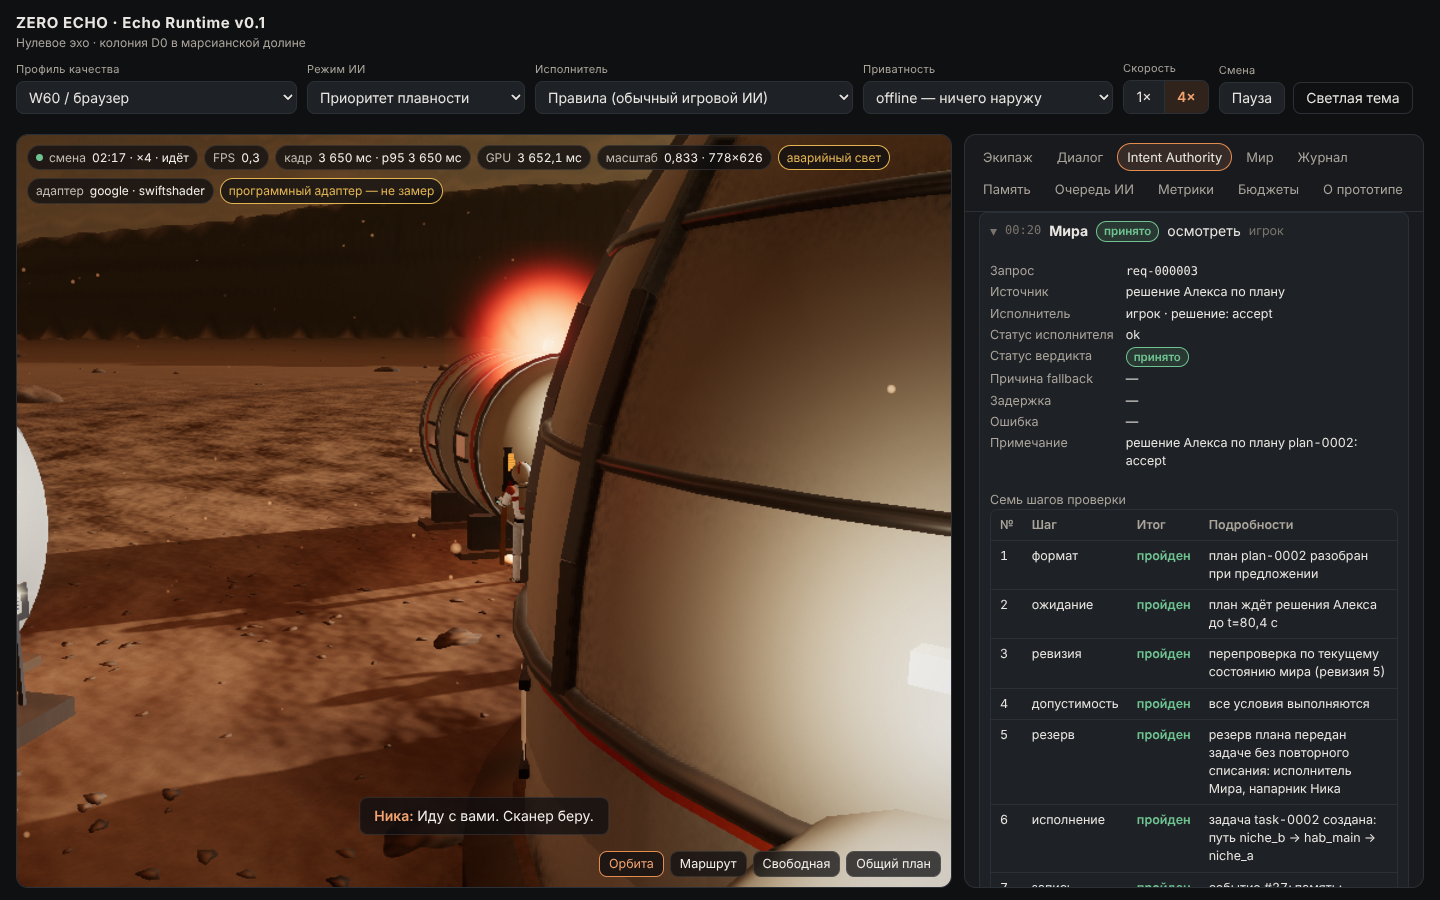
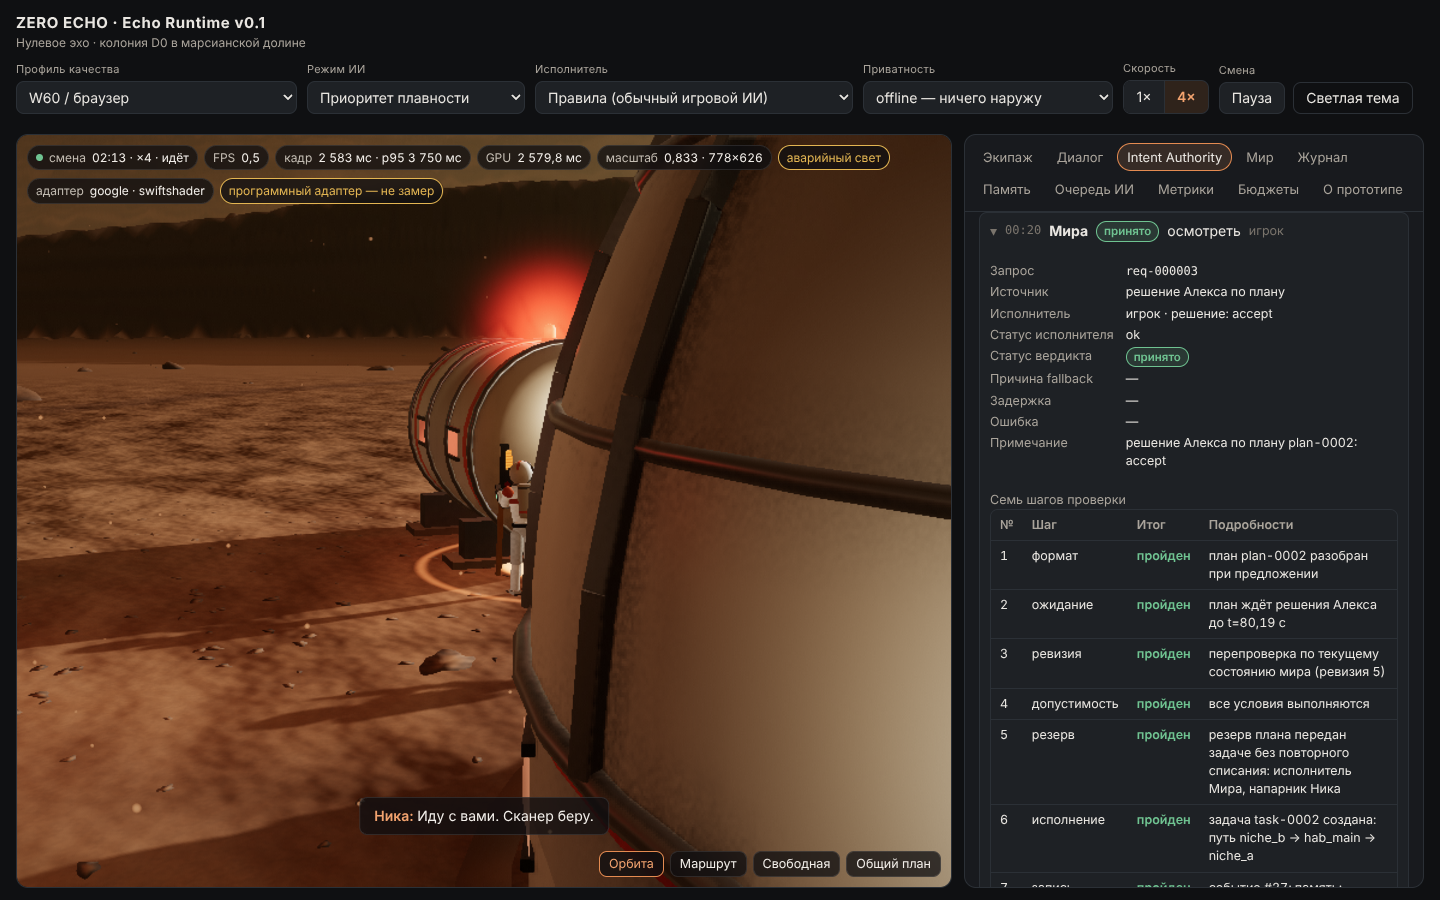
Finish web app: label placement on 2D map, host-set model deadline for remote APIs
core: set_ai_mode accepts deadline_scale (1..8, saved with the game) so a host
can give a remote API more than the 2.5 s target of Документ §11; tested.
web: «Срок ответа ИИ» selector; choosing Claude raises it to 10 s with a
notice; 2D map labels avoid overlapping dots and each other.

Claude-Session: https://claude.ai/code/session_011FHJpWL17zDC3nNXpciDhf

diff --git a/web/src/ui/map2d.ts b/web/src/ui/map2d.ts
@@ -79,6 +79,36 @@ export class ColonyMap {
     this.raf = 0;
   }
 
+  /** Screen rectangles already taken in the current frame (dots and labels), for label placement. */
+  private placed: Rect[] = [];
+
+  /**
+   * Places a label at the first candidate position that does not overlap anything placed this frame
+   * (or the least overlapping one), keeping it inside the canvas.
+   */
+  private placeLabel(text: string, candidates: Array<(tw: number, th: number) => [number, number]>, color: string, dpr: number): void {
+    const ctx = this.ctx;
+    const tw = ctx.measureText(text).width;
+    const th = 12 * dpr;
+    const W = this.canvas.width, H = this.canvas.height;
+    let best: [number, number] = candidates[0](tw, th);
+    let bestCost = Infinity;
+    for (const cand of candidates) {
+      const [lx, ly] = cand(tw, th);
+      const r = { x: lx - 2 * dpr, y: ly - dpr, w: tw + 4 * dpr, h: th + 2 * dpr };
+      let cost = 0;
+      for (const q of this.placed) cost += overlapArea(r, q);
+      if (r.x < 0 || r.y < 0 || r.x + r.w > W || r.y + r.h > H) cost += r.w * r.h;
+      if (cost < bestCost) { best = [lx, ly]; bestCost = cost; if (cost === 0) break; }
+    }
+    this.placed.push({ x: best[0] - 2 * dpr, y: best[1] - dpr, w: tw + 4 * dpr, h: th + 2 * dpr });
+    ctx.save();
+    ctx.textAlign = 'left';
+    ctx.textBaseline = 'top';
+    this.label(text, best[0], best[1], color, dpr);
+    ctx.restore();
+  }
+
   /** Text with a halo in the background colour so labels stay legible over lines and modules. */
   private label(text: string, x: number, y: number, color: string, dpr: number): void {
     const ctx = this.ctx;
@@ -122,6 +152,7 @@ export class ColonyMap {
 
     const snap = this.snap;
     const view = this.view;
+    this.placed = [];
     const sealed = new Set(view?.sealedZones ?? []);
 
     // doors (passages between zone stand points)
@@ -166,12 +197,6 @@ export class ColonyMap {
       }
       ctx.restore();
     }
-    // zone labels after all modules, so no module covers a label
-    for (const m of scene.modules) {
-      this.label(zoneNames.get(m.zone) ?? m.zone, X(m.position[0]), Z(m.position[2]) + Math.max(m.size[0], m.size[2]) * scale / 2 + 3 * dpr, P.label, dpr);
-    }
-    const surf = standPoint('surface');
-    this.label(zoneNames.get('surface') ?? 'поверхность', X(surf[0]), Z(surf[2]) + 6 * dpr, P.label, dpr);
 
     // markers
     for (const mk of view?.markers ?? []) {
@@ -208,10 +233,9 @@ export class ColonyMap {
     ctx.beginPath();
     ctx.arc(X(pp[0] - 1.6), Z(pp[2] - 1.2), 6 * dpr, 0, Math.PI * 2);
     ctx.stroke();
-    ctx.textBaseline = 'middle';
-    ctx.textAlign = 'left';
-    this.label(player.name_ru, X(pp[0] - 1.6) + 9 * dpr, Z(pp[2] - 1.2), P.label, dpr);
     ctx.restore();
+    const playerXY: [number, number] = [X(pp[0] - 1.6), Z(pp[2] - 1.2)];
+    this.placed.push({ x: playerXY[0] - 7 * dpr, y: playerXY[1] - 7 * dpr, w: 14 * dpr, h: 14 * dpr });
 
     // crew
     ctx.font = `600 ${11.5 * dpr}px ui-sans-serif, system-ui, sans-serif`;
@@ -233,11 +257,36 @@ export class ColonyMap {
       ctx.arc(x, z, 6.5 * dpr, 0, Math.PI * 2);
       ctx.fill();
       ctx.stroke();
-      ctx.textAlign = 'left';
-      ctx.textBaseline = 'middle';
-      this.label(a.name, x + 9 * dpr, z - 1 * dpr, P.fg, dpr);
       ctx.restore();
+      this.placed.push({ x: x - 7 * dpr, y: z - 7 * dpr, w: 14 * dpr, h: 14 * dpr });
     }
+
+    // labels last, crew first: each takes the first free spot around its anchor
+    const around = (x: number, z: number, r: number) => [
+      (_tw: number, th: number): [number, number] => [x + r, z - th / 2],
+      (tw: number, th: number): [number, number] => [x - r - tw, z - th / 2],
+      (_tw: number, th: number): [number, number] => [x + r, z - th - r / 2],
+      (_tw: number, _th: number): [number, number] => [x + r, z + r / 2],
+      (tw: number, th: number): [number, number] => [x - tw / 2, z - r - th],
+      (tw: number, _th: number): [number, number] => [x - tw / 2, z + r],
+      (tw: number, th: number): [number, number] => [x - r - tw, z - th - r / 2],
+      (tw: number, _th: number): [number, number] => [x - r - tw, z + r / 2],
+    ];
+    ctx.font = `600 ${11.5 * dpr}px ui-sans-serif, system-ui, sans-serif`;
+    for (const a of view?.actors ?? []) this.placeLabel(a.name, around(X(a.position[0]), Z(a.position[2]), 9 * dpr), P.fg, dpr);
+    ctx.font = `${11 * dpr}px ui-sans-serif, system-ui, sans-serif`;
+    this.placeLabel(player.name_ru, around(playerXY[0], playerXY[1], 9 * dpr), P.label, dpr);
+    for (const m of scene.modules) {
+      const cx = X(m.position[0]), cz = Z(m.position[2]);
+      const r = (Math.max(m.size[0], m.size[2]) * scale) / 2 + 3 * dpr;
+      this.placeLabel(zoneNames.get(m.zone) ?? m.zone, [
+        (tw: number, _th: number): [number, number] => [cx - tw / 2, cz + r],
+        (tw: number, th: number): [number, number] => [cx - tw / 2, cz - r - th],
+        ...around(cx, cz, r),
+      ], P.label, dpr);
+    }
+    const surf = standPoint('surface');
+    this.placeLabel(zoneNames.get('surface') ?? 'поверхность', around(X(surf[0]), Z(surf[2]), 8 * dpr), P.label, dpr);
 
     if (view?.emergencyLights) {
       ctx.save();
@@ -248,4 +297,12 @@ export class ColonyMap {
       ctx.restore();
     }
   }
+}
+
+interface Rect { x: number; y: number; w: number; h: number }
+
+function overlapArea(a: Rect, b: Rect): number {
+  const w = Math.min(a.x + a.w, b.x + b.w) - Math.max(a.x, b.x);
+  const h = Math.min(a.y + a.h, b.y + b.h) - Math.max(a.y, b.y);
+  return w > 0 && h > 0 ? w * h : 0;
 }

diff --git a/web/src/ui/app.ts b/web/src/ui/app.ts
@@ -76,6 +76,7 @@ export class App implements AppApi {
     const provider = prefs.provider as ProviderId | undefined;
     if (provider && provider in host.providers && (provider !== 'mock' || this.dev)) {
       if (provider === 'claude' || provider === 'gateway') host.setPrivacy('hybrid');
+      if (provider === 'claude') host.setDeadlineScale(4);
       host.setProvider(provider);
     }
   }
@@ -160,6 +161,10 @@ export class App implements AppApi {
       this.refresh();
     });
 
+    const deadlineSel = byId<HTMLSelectElement>('sel-deadline');
+    deadlineSel.value = String(this.host.deadlineScale);
+    deadlineSel.addEventListener('change', () => this.host.setDeadlineScale(Number(deadlineSel.value)));
+
     const speed = (s: SimSpeed) => {
       this.host.setSpeed(s);
       byId('btn-speed-1').setAttribute('aria-pressed', String(s === 1));
@@ -183,6 +188,11 @@ export class App implements AppApi {
       host.setPrivacy('hybrid');
       byId<HTMLSelectElement>('sel-privacy').value = 'hybrid';
       this.notice('Профиль приватности переключён на hybrid: реплики Алекса и контекст NPC будут уходить в Claude через страницу-хост. Вернуть offline — в селекторе «Приватность».', 'warn');
+    }
+    if (id === 'claude' && host.deadlineScale === 1) {
+      host.setDeadlineScale(4);
+      byId<HTMLSelectElement>('sel-deadline').value = '4';
+      this.notice('Срок ответа ИИ увеличен до 10 с: удалённой модели (и первому запросу разрешения у зрителя) 2,5 с обычно мало. Это режим демонстрации API; цель документа — 2,5 с, вернуть её можно в «Срок ответа ИИ».', 'info');
     }
     host.setProvider(id);
     savePrefs({ provider: id });

diff --git a/web/src/agent/host.ts b/web/src/agent/host.ts
@@ -125,6 +125,8 @@ export class AgentHost {
   providerId: ProviderId = 'rules';
   privacy: PrivacyProfile = 'offline';
   aiMode: AiMode = 'smooth';
+  /** Host multiplier for model deadlines (1 = 2.5 s direct reply, Документ §11); larger values only for remote APIs. */
+  deadlineScale = 1;
   speed: SimSpeed = 1;
   /** Physical-truth debug layer in the world tab (never shown to NPCs). */
   debugTruth = false;
@@ -289,6 +291,12 @@ export class AgentHost {
     this.notify();
   }
 
+  setDeadlineScale(s: number): void {
+    this.deadlineScale = Math.min(8, Math.max(1, s));
+    this.applyAiMode();
+    this.notify();
+  }
+
   applyAiMode(): void {
     try {
       const cores = typeof navigator !== 'undefined' && navigator.hardwareConcurrency ? navigator.hardwareConcurrency : undefined;
@@ -297,6 +305,7 @@ export class AgentHost {
         gpu_enabled: this.providerId === 'webllm' && this.webllm.ready,
         calibrated: false, // no joint render+model calibration exists in this prototype (Документ §11)
         privacy_profile: this.privacy,
+        deadline_scale: this.deadlineScale,
         ...(cores ? { cpu_cores: cores } : {}),
       });
       if (this.snapshot) this.refresh();

diff --git a/web/index.html b/web/index.html
@@ -438,6 +438,11 @@
         <option value="hybrid">hybrid — разрешённые узлы</option>
         <option value="online">online — внешние API</option>
       </select></label>
+      <label class="field"><span>Срок ответа ИИ</span><select id="sel-deadline">
+        <option value="1">2,5 с — цель документа</option>
+        <option value="2">5 с</option>
+        <option value="4">10 с — удалённый API</option>
+      </select></label>
       <div class="field-group">
         <div class="field"><span id="lbl-speed">Скорость</span>
           <div class="seg" role="group" aria-labelledby="lbl-speed">

diff --git a/core/src/engine.cpp b/core/src/engine.cpp
@@ -204,11 +204,13 @@ Value config_json(const Core& c) {
   v.set("privacy_profile", c.rt.config.privacy_profile);
   v.set("cpu_cores", c.rt.config.cpu_cores > 0 ? Value(c.rt.config.cpu_cores) : Value());
   v.set("cpu_threads", cpu_thread_pool(c));
+  v.set("deadline_scale", c.rt.config.deadline_scale);
   v.set("max_active_generations", c.data.profiles.admission.max_active_generations);
   Value notes = Value::array();
   if (c.rt.config.mode == "extended" && c.st.emergency) notes.push("«Расширенный разговор» запрещён во время аварии: действует режим «Живые диалоги».");
   if (c.rt.config.privacy_profile == "offline") notes.push("offline: удалённые исполнители запрещены, разговоры не покидают устройство.");
   if (c.rt.config.cpu_cores <= 0) notes.push("число ядер CPU неизвестно: CPU-пул по минимуму.");
+  if (c.rt.config.deadline_scale > 1.0) notes.push("сроки ответа модели увеличены хостом сверх целевых 2,5 с (Документ §11): режим демонстрации удалённого API.");
   v.set("notes_ru", notes);
   return v;
 }
@@ -449,12 +451,15 @@ Value cmd_set_ai_mode(Core& c, Args& a, CmdError& err) {
   const std::string privacy = a.one_of("privacy_profile", {"offline", "hybrid", "online"});
   const double cores = a.number("cpu_cores", false, static_cast<double>(c.rt.config.cpu_cores));
   if (!err.set && !(cores >= 0 && cores <= 1024 && std::trunc(cores) == cores)) err.fail("invalid_argument", "cpu_cores: целое ≥ 0");
+  const double scale = a.number("deadline_scale", false, c.rt.config.deadline_scale);
+  if (!err.set && !(scale >= 1.0 && scale <= 8.0)) err.fail("invalid_argument", "deadline_scale: число от 1 до 8");
   if (err.set) return Value();
   c.rt.config.mode = mode;
   c.rt.config.gpu_enabled = gpu;
   c.rt.config.calibrated = calibrated;
   c.rt.config.privacy_profile = privacy;
   c.rt.config.cpu_cores = static_cast<int>(cores);
+  c.rt.config.deadline_scale = scale;
   Value r = ok_response();
   r.set("config", config_json(c));
   return r;

diff --git a/core/tests/test_admission.cpp b/core/tests/test_admission.cpp
@@ -293,3 +293,21 @@ TEST(admission, decisions_carry_russian_reasons) {
   CHECK(has_cyrillic(d["decision"]["reason"].str()));
   for (const auto& r : d["decision"]["gate"]["reasons"].items()) CHECK(has_cyrillic(r.str()));
 }
+
+TEST(admission, host_deadline_scale_stretches_model_deadlines_only_within_bounds) {
+  World w;
+  const Value base = w.say("mira", "Мира, как дела?");
+  const double base_deadline = w.core().st.queue.back().deadline_ms - w.now_ms;
+  CHECK(!base["queued"].is_null());
+  CHECK_EQ(base_deadline, 2500.0);
+  const Value bad = w.call_text(R"({"cmd":"set_ai_mode","mode":"smooth","gpu_enabled":false,"calibrated":false,"privacy_profile":"hybrid","deadline_scale":0.5})");
+  CHECK_EQ(bad["error"]["code"].str(), std::string("invalid_argument"));
+  const Value ok = w.call_text(R"({"cmd":"set_ai_mode","mode":"smooth","gpu_enabled":false,"calibrated":false,"privacy_profile":"hybrid","deadline_scale":4})");
+  CHECK(ok["ok"].as_bool());
+  CHECK_EQ(ok["config"]["deadline_scale"].as_number(), 4.0);
+  w.say("leila", "Лейла, что нового?");
+  CHECK_EQ(w.core().st.queue.back().deadline_ms - w.now_ms, 10000.0);
+  // The setting survives save/load.
+  const Value saved = w.call_text(R"({"cmd":"save"})");
+  CHECK_EQ(saved["save"]["ai_config"]["deadline_scale"].as_number(), 4.0);
+}

diff --git a/core/src/persist.cpp b/core/src/persist.cpp
@@ -904,6 +904,7 @@ Value make_save(const Core& c) {
   cfg.set("calibrated", c.rt.config.calibrated);
   cfg.set("privacy_profile", c.rt.config.privacy_profile);
   cfg.set("cpu_cores", c.rt.config.cpu_cores);
+  cfg.set("deadline_scale", c.rt.config.deadline_scale);
   s.set("ai_config", cfg);
   s.set("hash", state_hash(c));
   s.set("state", state_to_json(c.st));
@@ -952,6 +953,7 @@ bool load_save(Core& c, const Value& save, std::string& error_code, std::string&
     c.rt.config.calibrated = cfg["calibrated"].as_bool();
     c.rt.config.privacy_profile = cfg["privacy_profile"].str("offline");
     c.rt.config.cpu_cores = static_cast<int>(cfg["cpu_cores"].as_int());
+    c.rt.config.deadline_scale = std::clamp(cfg["deadline_scale"].as_number(1.0), 1.0, 8.0);
   }
   return true;
 }

diff --git a/core/src/admission.cpp b/core/src/admission.cpp
@@ -164,7 +164,7 @@ EnqueueResult enqueue_request(Core& c, const std::string& actor_id, const std::s
   EnqueueResult res;
   const AdmissionConfig& cfg = c.data.profiles.admission;
   const int priority = cfg.priority.at(kind == "order_response" ? "direct_reply" : kind);
-  const double deadline = now_ms + cfg.deadline_ms.at(deadline_kind(kind));
+  const double deadline = now_ms + cfg.deadline_ms.at(deadline_kind(kind)) * c.rt.config.deadline_scale;
   if (immediate_reaction) say_immediate(c, actor_id, sit, res.immediate);
 
   if (kind == "emergency") {

diff --git a/core/include/echo/state.hpp b/core/include/echo/state.hpp
@@ -228,6 +228,7 @@ struct AiConfig {
   bool calibrated = false;
   std::string privacy_profile = "offline";  // offline | hybrid | online
   int cpu_cores = 0;                        // 0 = unknown (host did not report)
+  double deadline_scale = 1.0;              // host multiplier for model deadlines; 1 = Документ §11 targets
 };
 
 struct FrameSampleRec {
